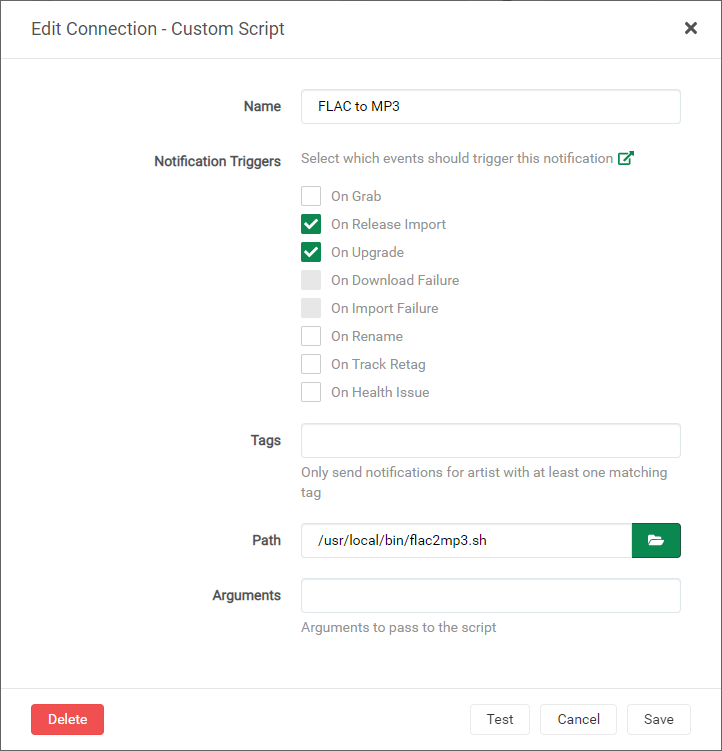
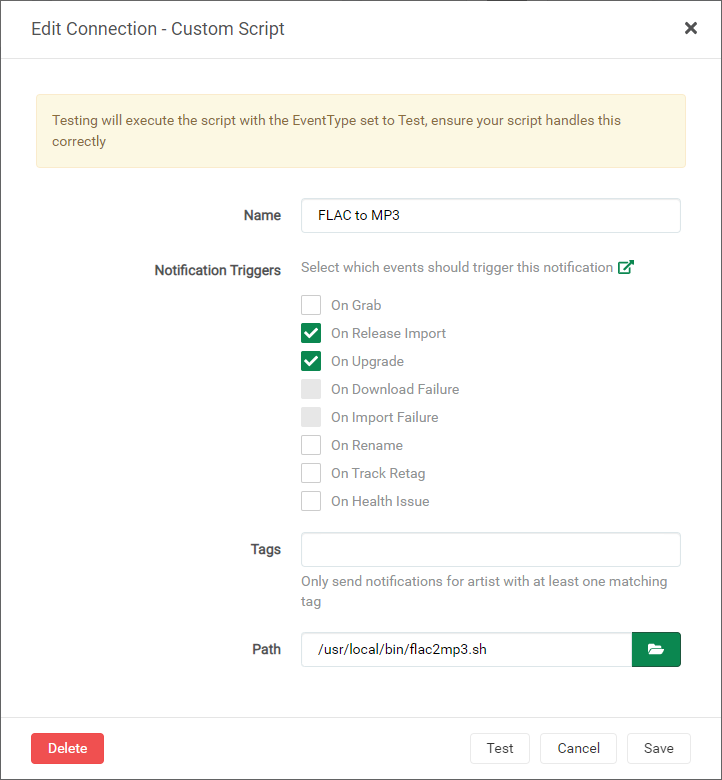
Initial Security Policy (#10)
Added Security Policy

* Update .dockerignore

* Updated screen shot

* Update README.md

diff --git a/README.md b/README.md
@@ -1,16 +1,16 @@
 [![](https://images.microbadger.com/badges/image/thecaptain989/lidarr.svg)](https://microbadger.com/images/thecaptain989/lidarr "Get your own image badge on microbadger.com")
 [![](https://images.microbadger.com/badges/version/thecaptain989/lidarr.svg)](https://microbadger.com/images/thecaptain989/lidarr "Get your own version badge on microbadger.com")
 
-Lidarr with a script to automatically convert FLAC files to MP3s. The MP3s are fully ID3 tagged by ffmpeg.
+Lidarr with a script to automatically convert downloaded FLAC files to MP3s. It also handles downloaded MP3s, which are copied with original quality (i.e. not converted). Resulting MP3s are fully ID3 tagged by ffmpeg.
 
 # First Things First
-
 Configure the container with all the port, volume, and environment settings from the original container documentation here:  
-**[linuxserver/lidarr](https://hub.docker.com/r/linuxserver/lidarr)**
+**[linuxserver/lidarr](https://hub.docker.com/r/linuxserver/lidarr "Docker container")**
+
+This container supports Linux OSes only.
 
 ## Usage
-
-After all of the above configuration is complete, to use ffmpeg, configure a custom script from the Settings->Connect screen to call:
+After all of the above configuration is complete, to use ffmpeg, configure a custom script from the Settings->Connect screen and type the following in the **Path** field:
 
 **`/usr/local/bin/flac2mp3.sh`**
 
@@ -19,22 +19,35 @@ New track file(s) with an MP3 extension will be placed in the same directory as 
 **NOTE:** The original FLAC audio file(s) will be deleted and permanently lost.
 
 ### Syntax
+**Note:** The **Arguments** field for Custom Scripts was removed in Lidarr release [v0.7.0.1347](https://github.com/lidarr/Lidarr/commit/b9d240924f8965ebb2c5e307e36b810ae076101e "Lidarr commit notes") due to security concerns.
+To support options with this version and later, a wrapper script can be manually created that will call *flac2mp3.sh* with the required arguments. Therefore, this section is for legacy and advanced purposes only.
 
-The script accepts two options:
+The script accepts two options which may be placed in the **Arguments** field:
 
 `[-d] [-b <bitrate>]`
 
 The `-b bitrate` option, if specified, sets the output quality in bits per second.  If no `-b` option is specified, the script will default to 320Kbps.
 
-The only events/notification triggers that have been tested are **On Release Import** and **On Upgrade**
-
 The `-d` option enables debug logging.
 
-### Examples
-    -b 320k        # Output 320 kilobits per second MP3 (same as default behavior)
-    -d -b 160k     # Enable debugging, and output 160 kilobits per second MP3
+#### Examples
+```
+-b 320k        # Output 320 kilobits per second MP3 (same as default behavior)
+-d -b 160k     # Enable debugging, and output 160 kilobits per second MP3
+```
 
-![lidarr-flac2mp3](https://raw.githubusercontent.com/TheCaptain989/lidarr-flac2mp3/master/images/flac2mp3.png)
+#### Example Wrapper Script
+To use the example options above, create and save the following text in a file called *wrapper.sh* and then use that in the **Path** field in place of *flac2mp3.sh* in the Custom Script dialog from the Settings->Connect screen.
+```
+#!/bin/bash
+
+. /usr/local/bin/flac2mp3.sh -d -b 160k
+```
+
+### Triggers
+The only events/notification triggers that have been tested are **On Release Import** and **On Upgrade**
+
+![lidarr-flac2mp3](https://raw.githubusercontent.com/TheCaptain989/lidarr-flac2mp3/master/images/flac2mp3.png "Lidarr Custom Script dialog")
 
 ### Logs
 A log file is created for the script activity called:
@@ -52,11 +65,10 @@ If debug logging is enabled, the following log file is also created:
 **This log file will grow indefinitely!** Do not leave debugging enabled permanently.
 
 ## Credits
-
 This would not be possible without the following:
 
-[Lidarr](https://lidarr.audio/)
+[Lidarr](https://lidarr.audio/ "Lidarr homepage")
 
-[LinuxServer.io Lidarr](https://hub.docker.com/r/linuxserver/lidarr) container
+[LinuxServer.io Lidarr](https://hub.docker.com/r/linuxserver/lidarr "Docker container") container
 
-[ffmpeg](https://ffmpeg.org/)
+[ffmpeg](https://ffmpeg.org/ "FFMpeg homepage")

diff --git a/SECURITY.md b/SECURITY.md
@@ -1,0 +1,18 @@
+# Security Policy
+
+## Supported Versions
+
+Only the latest major and minor version are supported.
+
+| Version | Supported          |
+| ------- | ------------------ |
+| 1.4.x   | :heavy_check_mark: |
+| < 1.4   | :x:                |
+
+## Reporting a Vulnerability
+
+Vulnerability reports or security concerns may be submitted as a new issue in GitHub, or emailed to:
+
+>thecaptain989@protonmail.com
+
+Please allow 48-hours for an initial response. An issue will be entered if accepted.
